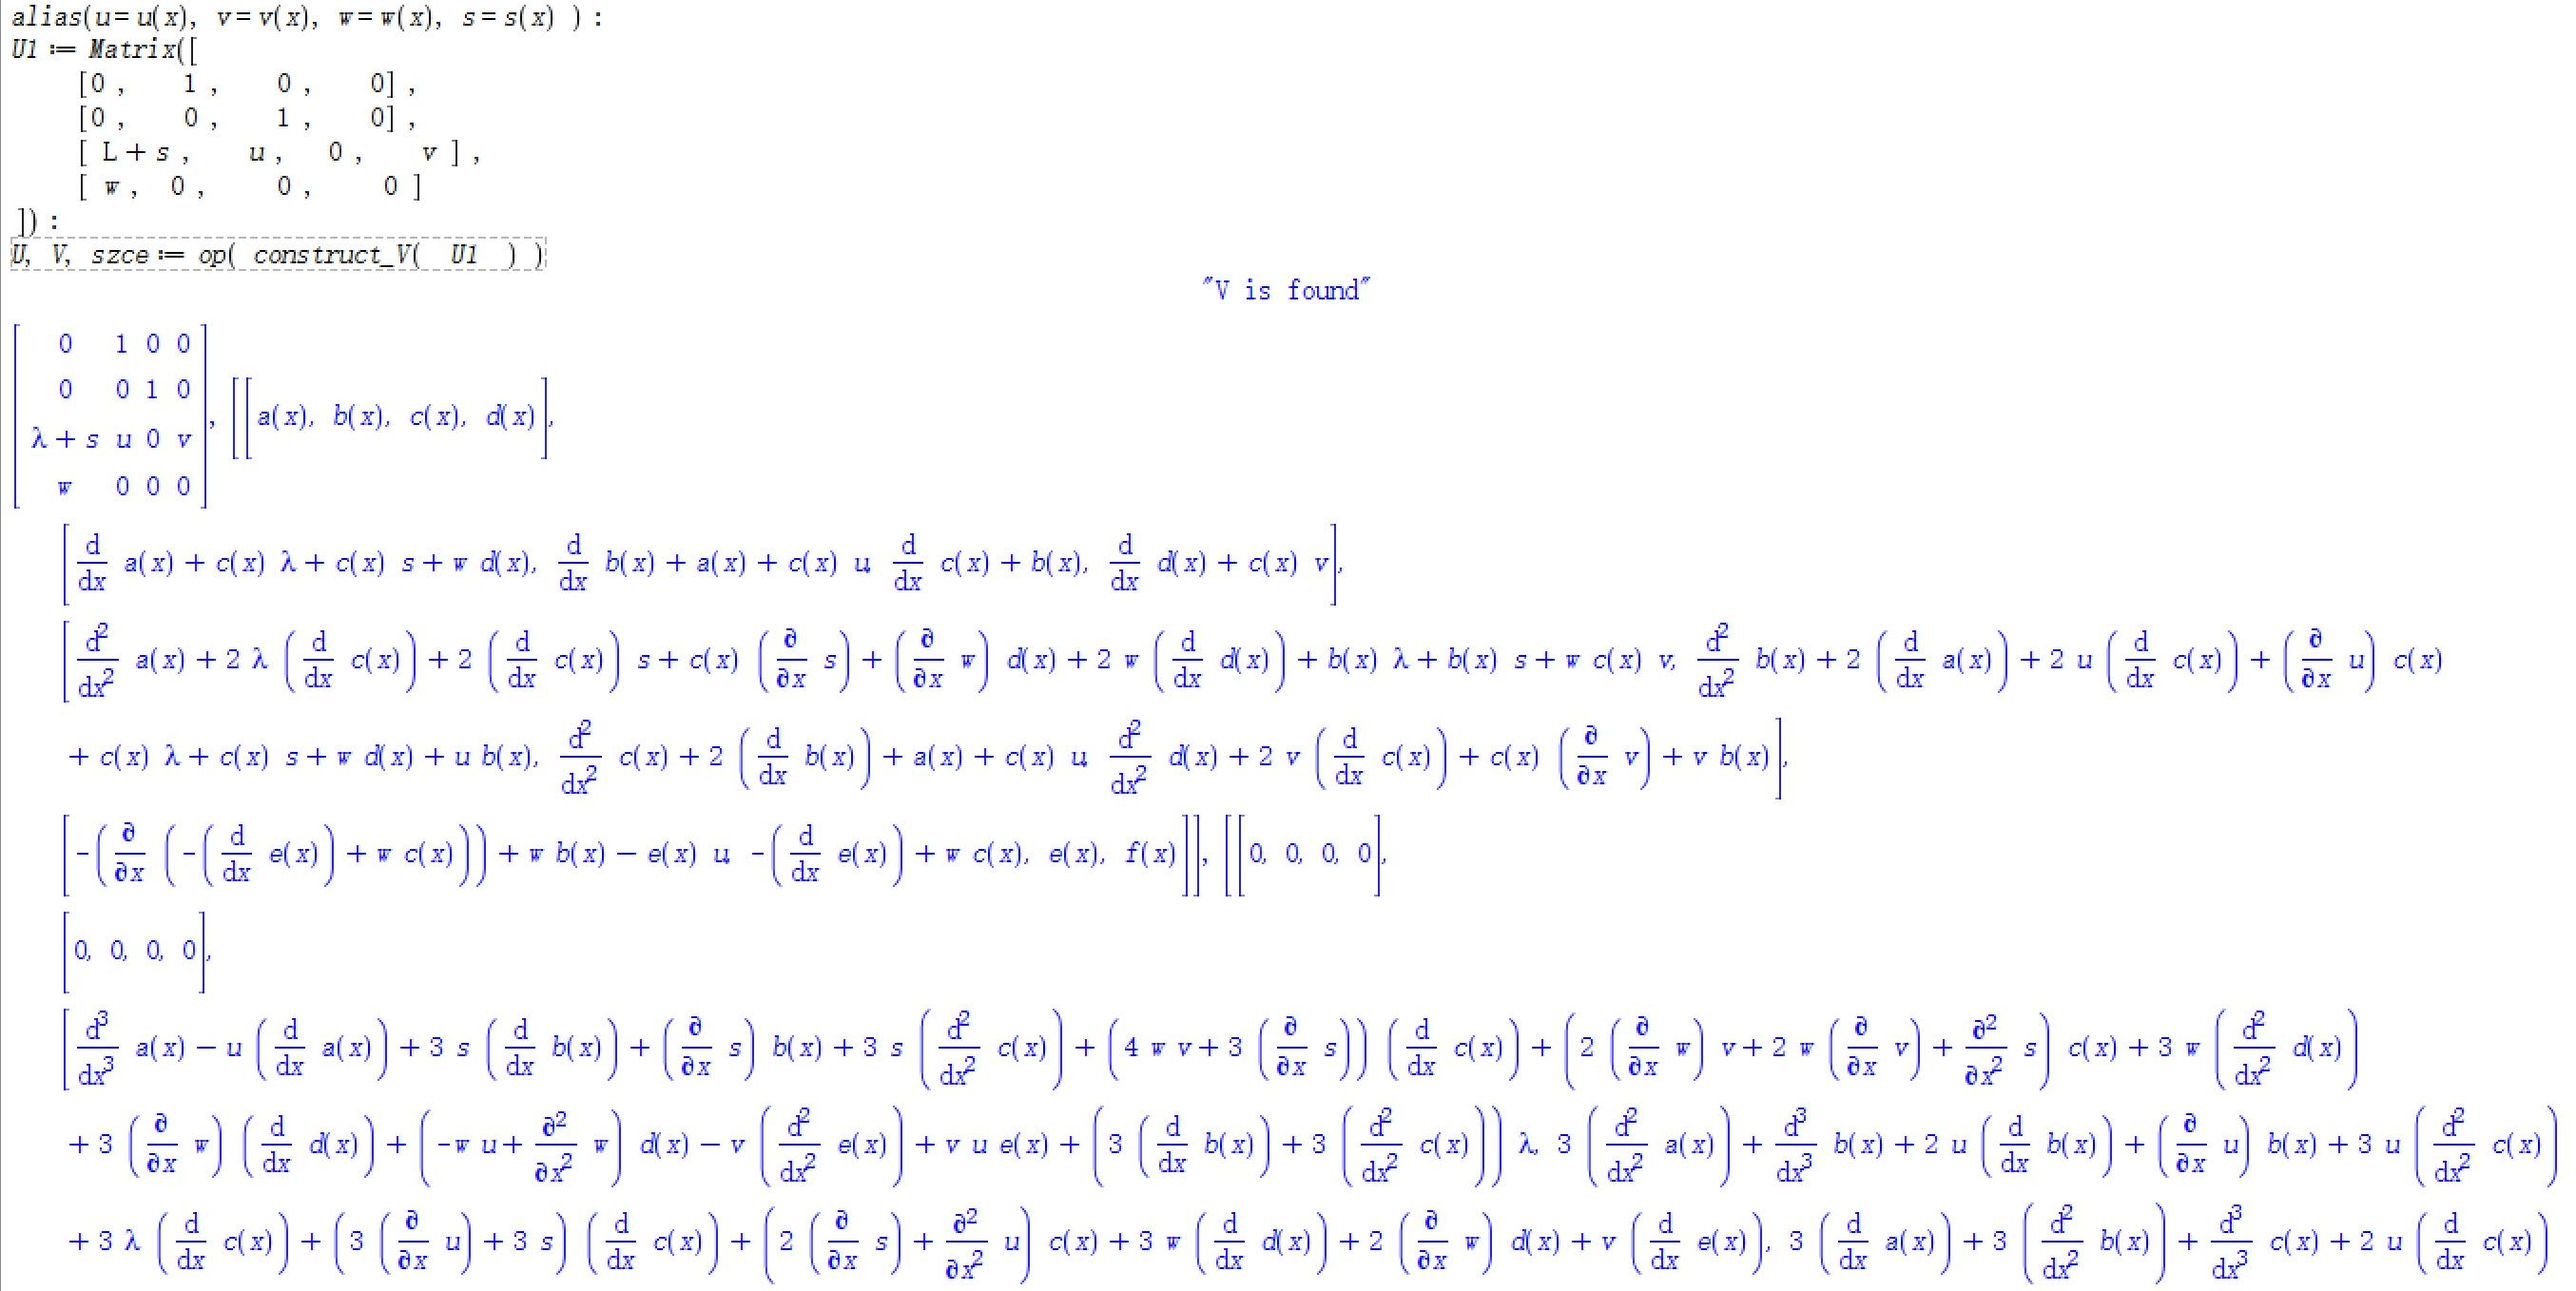
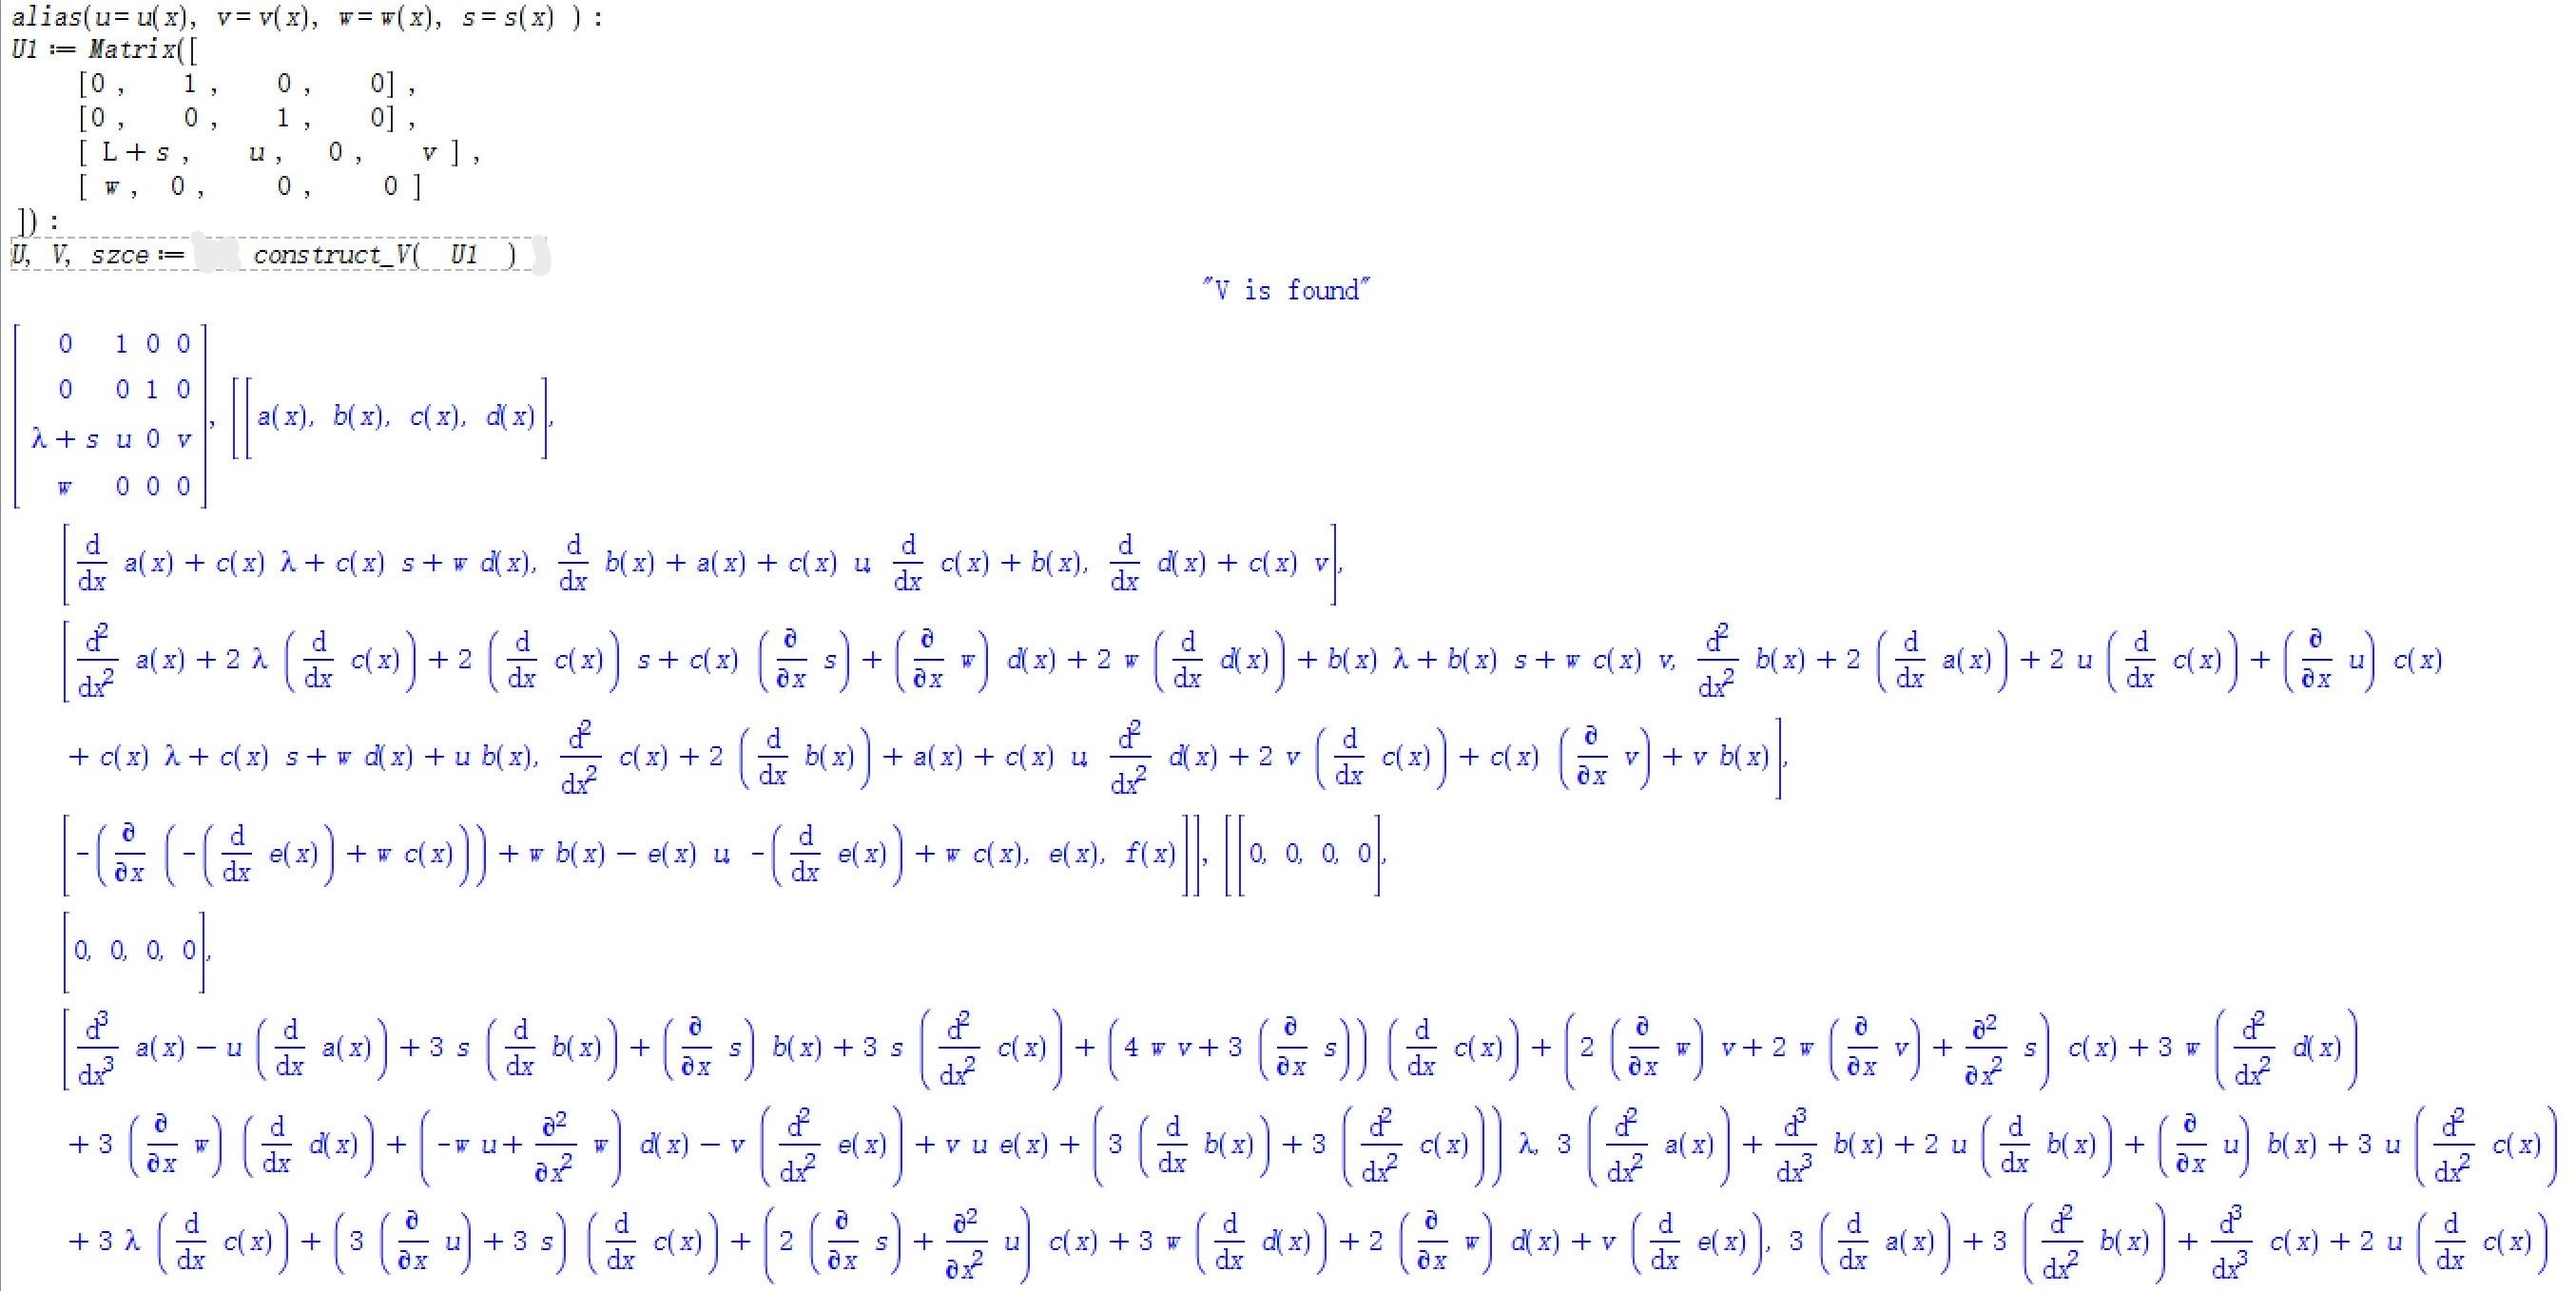
update: derive-hierarchy

Changed region(s): [[0.5271, 0.8041, 0.5581, 0.8351], [0.4961, 0.2165, 0.5271, 0.2474], [0.062, 0.1856, 0.093, 0.2165]]

diff --git a/content/post/derive-hierarchy/index.md b/content/post/derive-hierarchy/index.md
@@ -1,7 +1,7 @@
 ---
 title: "Maple自动推导方程族"
 date: 2022-01-11 19:48:46 +0800
-lastmod: 2022-11-12 20:20:24 +0800
+lastmod: 2022-11-16 10:21:49 +0800
 summary: '对于给定的谱问题U， 利用Maple自动导出方程族相应的V'
 tags: ["Maple", "Lax pairs", "spectral problem"]
 categories: ["Maple", "integrable system"]
@@ -65,14 +65,14 @@ cover:
 
 #### 用法
 ```javascript
-construct_V(U)
+U, V, szce := construct_V(U);
 ```
 
 #### 输入
 **U**: 谱问题.
 
 #### 输出
-**[U, V, szce]**: U, V, szce(经过化简的驻定零曲率方程)
+**U, V, szce**(经过化简的驻定零曲率方程).
 
 #### 例子
 - 离散
@@ -85,10 +85,19 @@ construct_V(U)
 ![](images/c1.jpg)
 
 
-### 链接
+### 代码
 
 我们将程序放在[Github代码库](https://github.com/jiandandaoxingfu/derive-hierarchy-V)， 这里不在附上。
 
-> 为了方便应用, 我们对上述程序进行了封装, 同样放在上述仓库中, 连续和离散情形的文件名分别为`Hierarchy.mla` 和 `DiscreteHierarchy.mla`, 需要将其放在maple安装目录的`lib`文件夹中. 之后就可以作为包导入即可使用,
+为了方便应用, 我们对上述程序进行了封装, 同样放在上述仓库中, 连续和离散情形的文件名分别为`Hierarchy.mla` 和 `DiscreteHierarchy.mla`, 需要将其放在maple安装目录的`lib`文件夹中. 之后就可以作为包导入即可使用,
 ![](images/m1.jpg)
-其中包含了几个推导方程族时常用的函数.
+其中包含了几个推导方程族时常用的函数(连续, 离散情形类似)
+
+|函数|作用|用法|
+|---:|:---|:---|
+| **L**:| 谱参数 $\lambda$, 方便输入. |`L` |
+| **compute_szce**:| 计算驻定零曲率方程. |`szce := compute_szce(U, V)`. |
+| **create_V**:| 创建 $V=(V_{ij})_{order}$. |`V := create_V(order)`.|
+| **get_KG_eqs**:| 从驻定零曲率方程获取 KG 和 JG. |`K_eqs, J_eqs := get_KG_eqs(szce)`. |
+| **print_szce**:| 输出(打印)驻定零曲率方程. |`print_szce(szce, U)`. |
+| **sort_szce**:| 对驻定零曲率方程中变量$G=(a, b, \dots)$进行排序, 方便写出$K, J$算子. |`szce: = sort_szce(szce, U)`. |

diff --git a/content/post/solve-difference-equation/index.md b/content/post/solve-difference-equation/index.md
@@ -1,7 +1,7 @@
 ---
 title: "Maple求解差分方程"
 date: 2022-01-11 19:31:32 +0800
-lastmod: 2022-11-16 09:34:33 +0800
+lastmod: 2022-11-16 10:19:02 +0800
 summary: '利用Maple求解差分方程的算法'
 tags: ["Maple", "solve difference equation"]
 categories: ["Maple"]
@@ -143,9 +143,15 @@ $$
 d = -\alpha(u^-v^-uv^{\-\-} + v^-w^-u - uv^{\-\-}) - \beta (E+1)^{-1}(w + uv^-).
 $$
 
-### 链接
+### 代码
 我们将程序放在[Github代码库](https://github.com/jiandandaoxingfu/solve-difference-equations)， 这里不在附上。
 
-> 为了方便应用, 我们对上述程序进行了封装, 同样放在上述仓库中, 文件名为`SolveDifferenceEq.mla`, 需要将其放在maple安装目录的`lib`文件夹中. 之后就可以作为包导入即可使用
+为了方便应用, 我们对上述程序进行了封装, 同样放在上述仓库中, 文件名为`SolveDifferenceEq.mla`, 需要将其放在maple安装目录的`lib`文件夹中. 之后就可以作为包导入即可使用
 ![](images/eg4.jpg)
-其中包含了几个差分算子.
+其中包含了几个差分算子
+|||
+|---:|:---|
+| **$\bf{Delta(\Delta)}:$**| $\text{Delta}(a(n)) = a(n+1) - a(n).$|
+| **Deltam**:| $\text{Deltam}(a(n), k)=a(n) + a(n+1) + \dots + a(n+k).$|
+| **shift**:| 位移算子, $\text{shift}(a(n), k)=a(n+k)$. |
+| **subss**:| 离散替换, `subss({a(n)=b(n)}, expr)=subs({a(n-10)=b(n-10), ... a(n)=b(n), ..., a(n+10)=b(n+10)}, expr)`,其中subs是Maple内置的替换函数. |
